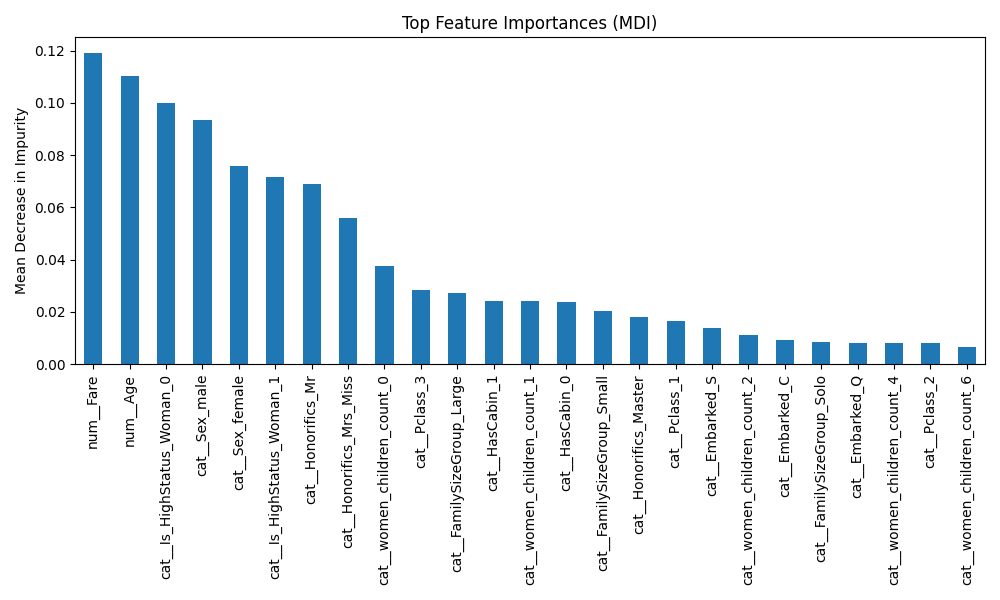
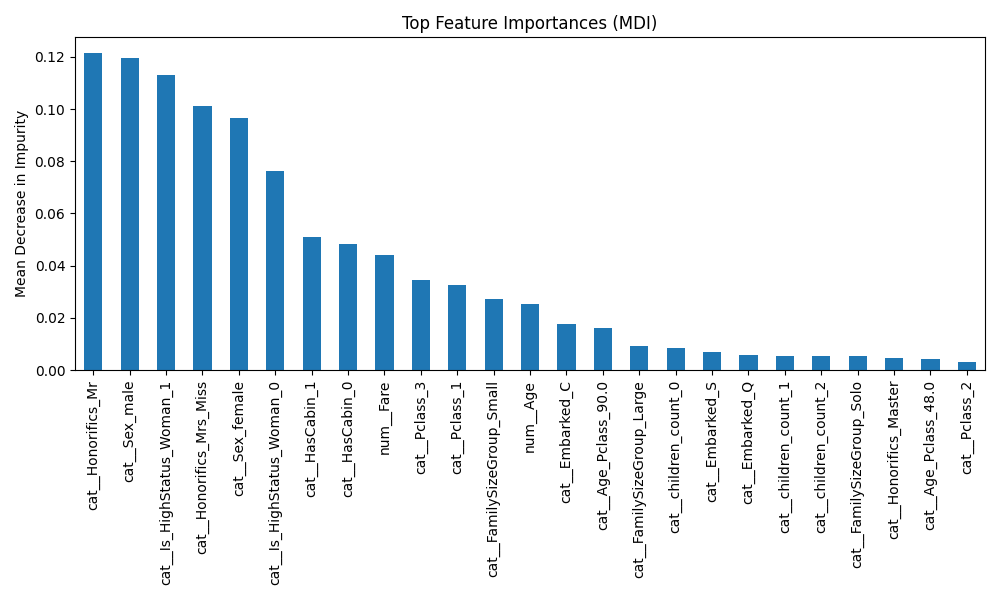
79 accuracy

diff --git a/scripts/train.py b/scripts/train.py
@@ -2,8 +2,8 @@ import pandas as pd
 
 from sklearn.linear_model import LogisticRegression
 from sklearn.ensemble import RandomForestClassifier
-
-from sklearn.model_selection import StratifiedKFold, cross_val_score
+from sklearn.metrics import accuracy_score
+from sklearn.model_selection import StratifiedKFold,RepeatedStratifiedKFold, cross_val_score
 from sklearn.pipeline import Pipeline
 from pathlib import Path
 
@@ -11,8 +11,8 @@ from features import process_features
 from preprocessing import preprocessor
 import matplotlib.pyplot as plt 
 import pandas as pd
-# import xgboost as xgb
-# from xgboost import XGBClassifier
+from sklearn.model_selection import train_test_split
+from xgboost import XGBClassifier
 
 
 # train = pd.read_csv("../data/train.csv")
@@ -29,42 +29,29 @@ data_medians =data.groupby(
 )["Age"].median()
 
 global_median = data["Age"].median()
-train = process_features(data , data_medians , global_median)
-test = process_features(test_data  , data_medians , global_median)
+train,test = process_features(data , test_data , data_medians , global_median)
+# test= process_features(test_data ,data   ,  data_medians , global_median)
 
-X = train[
-    [
-        "Embarked",
-        "Age",
-        "HasCabin",
-        "Honorifics",
-        "Sex",
-        "Pclass",
-        "FamilySizeGroup",
-        "Is_HighStatus_Woman",
-        "Fare",
-        "women_children_count"
-    ]
-]
-X_test = test[
-    [
-        "Embarked",
-        "Age",
-        "HasCabin",
-        "Honorifics",
-        "Sex",
-        "Pclass",
-        "FamilySizeGroup",
-        "Is_HighStatus_Woman",
-        "Fare",
-        "women_children_count"
-    ]
-]
+
+selected_cols = [
+            "Age",
+            "Fare",
+            "Embarked",
+            "HasCabin",
+            "Honorifics",
+            "Sex",
+            "Pclass",
+            "FamilySizeGroup",
+            "children_count",
+            "Is_HighStatus_Woman",
+            # "women_children_count"
+            "Age_Pclass"
+        ]
+
 
 
 title_age_medians = train.groupby("Honorifics")["Age"].median()
 global_age_median = train["Age"].median()  
-
 train["Age"] = train["Age"].fillna(
     train["Honorifics"].map(title_age_medians)
 )
@@ -75,41 +62,74 @@ test["Age"] = test["Age"].fillna(
 )
 test["Age"] = test["Age"].fillna(global_age_median)
 
-# rf_model = RandomForestClassifier(n_estimators=100, random_state=42 , max_leaf_nodes=60)
-# params = {
-#     'objective':'binary:logistic',
-#     'max_depth':8,
-#     'learning_rate':0.3,
-#     'n_estimators':100,
-#     'alpha':10
-# }
+X = train[selected_cols]
+X_test = test[selected_cols]
+print(X_test.isna().sum())
 
-# model = XGBClassifier(**params)
+rf_model = RandomForestClassifier(n_estimators=80, random_state=42 , max_leaf_nodes=60)
 
+
+
+
+params = {
+    'objective':'binary:logistic',
+    'max_depth':8,
+    'learning_rate':0.3,
+    'n_estimators':100,
+    'alpha':10
+}
+
+# xg_model = XGBClassifier(**params)
+rf_model = RandomForestClassifier(
+    n_estimators=120,
+    max_depth=3,  
+    min_samples_leaf=5,
+    random_state=42,
+    
+)
+
+# xgb_model = XGBClassifier(
+#     n_estimators=100,
+#     max_depth=3, 
+#     learning_rate=0.03, 
+#     subsample=0.8,
+#     colsample_bytree=0.8,
+#     random_state=42,
+# )
+
+
+X_train,X_test1,y_train,y_test1 = train_test_split(X,y, test_size=0.2, random_state=42 , stratify=y)
+
+# 3. Regularized Logistic Regression
+lg_model = LogisticRegression(C=0.1, max_iter=1000)
 model = Pipeline([
     ("preprocessor", preprocessor),
-    ("classifier", LogisticRegression(max_iter=1000))
+    ("classifier", rf_model)
 ])
 
-model.fit(X=X , y=y)
+model.fit(X=X_train , y=y_train)
+
 trained_rf = model.named_steps["classifier"]
-# importances = trained_rf.feature_importances_
-# feature_names = model.named_steps["preprocessor"].get_feature_names_out()
+importances = trained_rf.feature_importances_
+feature_names = model.named_steps["preprocessor"].get_feature_names_out()
 
-# forest_importances = pd.Series(importances, index=feature_names).sort_values(ascending=False)
+forest_importances = pd.Series(importances, index=feature_names).sort_values(ascending=False)
+print(X_test.isna().sum())
+plt.figure(figsize=(10, 6))
+forest_importances.head(25).plot(kind="bar")
+plt.title("Top Feature Importances (MDI)")
+plt.ylabel("Mean Decrease in Impurity")
+plt.tight_layout()
+plt.savefig('training_plots.png')
+print("Plot saved as training_plots.png")
 
-# Plot the top 15 features
-# plt.figure(figsize=(10, 6))
-# forest_importances.head(25).plot(kind="bar")
-# plt.title("Top Feature Importances (MDI)")
-# plt.ylabel("Mean Decrease in Impurity")
-# plt.tight_layout()
-# plt.savefig('training_plots.png')
-# print("Plot saved as training_plots.png")
 
 
 # model.feature_importances_
+
+y_predict1 = model.predict(X_test1)
 y_predict = model.predict(X_test)
+print(f'prediction score : {accuracy_score(y_pred=y_predict1 , y_true=y_test1)}')
 submission = pd.DataFrame({"PassengerId" : test_data["PassengerId"] , "Survived" :y_predict})
 submission.to_csv(BASE_DIR.parent / "data" / "submission.csv" , index=False)
 print(y_predict)
@@ -119,7 +139,6 @@ skf = StratifiedKFold(
     random_state=42
 )
 
-
 scores = cross_val_score(
     model,
     X,
@@ -128,7 +147,11 @@ scores = cross_val_score(
     scoring="accuracy"
 )
 
-
-
 print("Scores:", scores)
 print("Mean:", scores.mean())
+
+rskf = RepeatedStratifiedKFold(n_splits=5, n_repeats=3, random_state=42)
+scores = cross_val_score(model, X, y, cv=rskf, scoring="accuracy")
+
+print(f"Realistic Local CV Mean: {scores.mean():.4f}")
+print(f"Score Variance (Std):   {scores.std():.4f}")

diff --git a/scripts/features.py b/scripts/features.py
@@ -5,51 +5,61 @@ import numpy as np
 import pandas as pd
 
 
-def process_features(df , age_medians , global_med):
-    df = df.copy()
-    df["HasCabin"] = df["Cabin"].notna().astype(int)
-    df["Honorifics"] = df["Name"].str.extract(r" ([A-Za-z]+)\.", expand=False)
+def process_features(df , df_test , age_medians , global_med):
+    combined = pd.concat([df.drop(columns = ["Survived"] , errors="ignore") , df_test] ,axis=0).reset_index(drop=True)
+    combined["HasCabin"] = combined["Cabin"].notna().astype(int)
+    combined["Honorifics"] = combined["Name"].str.extract(r" ([A-Za-z]+)\.", expand=False)
     title_mapping = {
         "Mr": "Mr",
-        "Mrs": "Mrs_Miss",
         "Miss": "Mrs_Miss",
+        "Mrs": "Mrs_Miss",
         "Master": "Master",
     }
-    df["Honorifics"] = df["Honorifics"].map(title_mapping).fillna("Rare")
+    combined["Honorifics_Median"] = combined["Honorifics"].map(age_medians)
+    combined["Age"] = combined["Age"].fillna(combined["Honorifics_Median"])
+    combined["Age"] = combined["Age"].fillna(global_med)
+    combined["Honorifics"] = combined["Honorifics"].map(title_mapping).fillna("Rare")
 
-    family_count = df["SibSp"] + df["Parch"]
-    df["FamilySizeGroup"] = pd.cut(
+    family_count = combined["SibSp"] + combined["Parch"]
+    combined["FamilySizeGroup"] = pd.cut(
         family_count,
         bins=[-1, 0, 3, 20],
         labels=["Solo", "Small", "Large"],
     )
 
-    df["Is_HighStatus_Woman"] = (
-        (df["Sex"] == "female") & (df["Pclass"] <= 2)
+    combined["Is_HighStatus_Woman"] = (
+        ((combined["Sex"] == "female") & (combined["Pclass"] <= 2)) 
     ).astype(int)
 
 
-    df["women_children_count"] = (
-    (df["Sex"].eq("female") | df["Age"].lt(18))
-    .groupby(df["Ticket"])
+    combined["children_count"] = (
+    (combined["Age"].lt(18))
+    .groupby(combined["Ticket"])
     .transform("sum")
 )
+
+
+    combined["Age_Pclass"] = combined["Pclass"] * combined["Age"] 
     selected_cols = [
             "Embarked",
             "Age",
+            "Age_Pclass" , 
             "HasCabin",
             "Honorifics",
             "Sex",
             "Pclass",
             "FamilySizeGroup",
-            "Is_HighStatus_Woman",
             "Fare",
-            "women_children_count"
+            "children_count",
+            "Is_HighStatus_Woman",
+            
+            # "women_children_count"
         ]
         
         
     # print(df)
-    df["Honorifics_Median"] = df["Honorifics"].map(age_medians)
-    df["Age"] = df["Age"].fillna(df["Honorifics_Median"])
-    df["Age"] = df["Age"].fillna(global_med)
-    return df[selected_cols]
+    train_len = len(df)
+    X_train_full = combined.iloc[:train_len].copy()
+    X_test_full = combined.iloc[train_len:].copy()
+    return X_train_full, X_test_full
+

diff --git a/scripts/preprocessing.py b/scripts/preprocessing.py
@@ -8,14 +8,17 @@ num_cols = ["Fare" , "Age"]
 
 
 cat_cols = [
-    "Embarked",
-    "HasCabin",
-    "Honorifics",
-    "Sex",
-    "Pclass",
-    "FamilySizeGroup",
-    "Is_HighStatus_Woman",
-    "women_children_count"
+
+            "Embarked",
+            "HasCabin",
+            "Honorifics",
+            "Sex",
+            "Pclass",
+            "FamilySizeGroup",
+            "children_count",
+            "Is_HighStatus_Woman", 
+            "Age_Pclass"
+            # "women_children_count"
 ]
 
 
